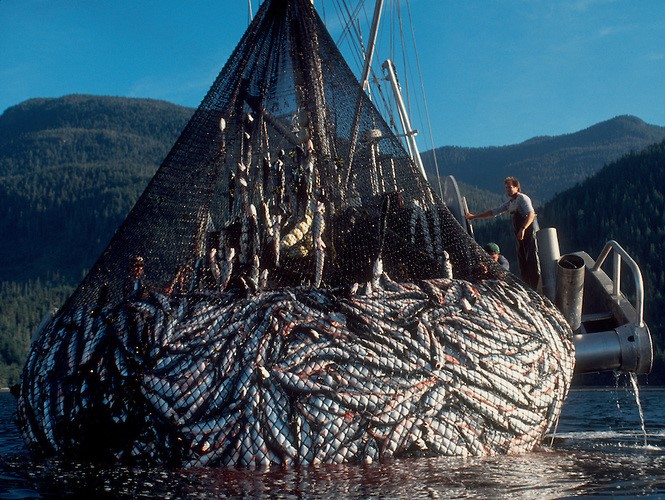
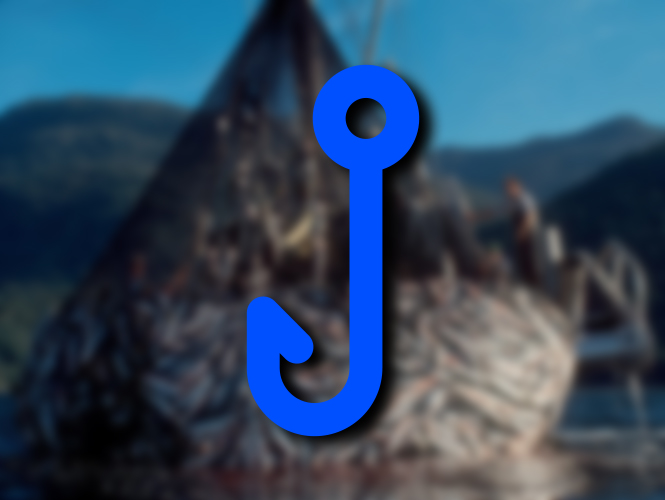
modificada pagina principal, añadidas páginas de información y perfil (todavía por completar) y modificaciones en el header para todas las páginas

diff --git a/html/Perfil.html b/html/Perfil.html
@@ -1,31 +1,22 @@
 <!DOCTYPE html>
-<html lang="en">
+<html>
 
 <head>
-
-    <meta charset="utf-8">
-    <meta name="viewport" content="width=device-width, initial-scale=1, shrink-to-fit=no">
-    <meta name="description" content="Página principal de Aquabid">
-    <meta name="author" content="Miguel Ángel Pérez, Eric Romero, Alberto Sastre, Alfonso Torres">
-
-    <title>AQUABID</title>
-
-    <link rel="shortcut icon" href="../images/Aquabid.png">
-    <link href="https://fonts.googleapis.com/css?family=Comfortaa:400,700" rel="stylesheet">
-
-    <!-- JavaScript -->
-    <script language="javascript" type="text/javascript" src="../js/ProcesoSubasta.js"></script>
-
-    <!-- Bootstrap core CSS -->
     <link rel="stylesheet" href="https://maxcdn.bootstrapcdn.com/bootstrap/4.3.1/css/bootstrap.min.css">
-    <link href="https://fonts.googleapis.com/css?family=Comfortaa:400,700" rel="stylesheet">
-    <link href="../css/lonja.css" rel="stylesheet">
     <link rel="stylesheet" href="../css/RegistroCliente.css">
+    <link rel="stylesheet" href="../css/lonja.css">
+    <link href="https://fonts.googleapis.com/css?family=Comfortaa:400,700" rel="stylesheet">
+    <script src="../js/RegistroCliente.js"></script>
+    <meta charset="UTF-8">
+    <meta name="viewport" content="width=device-width, initial-scale=1">
 
+
+    <title>Perfil</title>
+    <link rel="shortcut icon" href="../images/Aquabid.png">
 </head>
 
-<body id="bprincipal ">
-    <!-- Navigation -->
+    
+<body>
     <header>
         <nav class="navbar navbar-expand-lg navbar-dark bg-dark fixed-top nnavbar">
             <div class="container">
@@ -33,10 +24,10 @@
                 <div class="collapse navbar-collapse" id="navbarResponsive">
 
                     <ul class="navbar-nav ml-auto">
-                        <li class="nav-item-principal ">
+                        <li class="nav-item-principal">
                             <a class="nav-link" href="principal.html">Home</a>
                         </li>
-                        <li class="nav-item-principal active">
+                        <li class="nav-item-principal">
                             <a class="nav-link" href="captura.html">Captura</a>
                         </li>
                         <li class="nav-item-principal">
@@ -51,7 +42,7 @@
                         <li class="nav-item">
                             <a class="nav-link" href="informacion.html">Información</a>
                         </li>
-                        <li class="nav-item">
+                        <li class="nav-item active">
                             <a class="nav-link" href="Perfil.html">Perfil</a>
                         </li>
                     </ul>
@@ -59,63 +50,55 @@
             </div>
         </nav>
     </header>
-
-    <!-- Page Content -->
-    <br>
-    <br>
-    <div id="formularioCliente" class="shadow-lg container">
+        
+        <div id="formularioCliente" class="shadow-lg container">
         <br>
-        <h1 class="text-center">Proceso Subasta</h1>
-        <form name="procesoSubasta">
-
+        <h1 class="text-center">Perfil de usuario</h1>
+        <form name="registrocliente" onsubmit="return Registro()" method="post">
             <div class="form-row">
+                <div class="form-group col-md-6">
+                    <label for="nombreC">Nombre del supervisor:</label>
+                    <input type="text" class="form-control" placeholder="Nombre del cliente" name="nombreC">
+                </div>
+                <div class="form-group col-md-6">
+                    <label for="apellidos">Apellidos:</label>
+                    <input type="text" class="form-control" placeholder="Apellidos" id="apellidos">
+                </div>
+            </div>
+            <div class="form-row">
+                <div class="form-group col-md-6">
+                    <label for="usuario">Usuario:</label>
+                    <input type="text" class="form-control" placeholder="Usuario" id="usuario">
+                </div>
+                <div class="form-group col-md-6">
+                    <label for="telefonoC">Teléfono:</label>
+                    <input type="number" maxlength="9" class="form-control" placeholder="Teléfono del cliente"
+                        id="telefonoC">
+                </div>
+            </div>
+            <div class="form-row">
+                <div class="form-group col-md-6">
+                    <label for="email">Dirección de email:</label>
+                    <input type="email" class="form-control" placeholder="Dirección de email" id="email">
+                </div>
+                <div class="form-group col-md-6">
+                    <label for="password">Contraseña:</label>
+                    <input type="password" class="form-control" id="password" placeholder="Contraseña">
+                </div>
+            </div>
                 <div class="form-group col-md-12">
-                    <div class="output">
-                        <p id="precio" class="text-center size-counter">999.99€</p>
-                    </div>
+                    <label for="codigo">Código Supervisor:</label>
+                    <input type="password" class="form-control" id="password" placeholder="Código">
                 </div>
-            </div>
-            <div class="form-row">
-                <div class="form-group col-md-6">
-                    <label for="barco">Barco:</label>
-                    <output type="text" class="form-control" name="barco">
-                </div>
-                <div class="form-group col-md-6">
-                    <label for="zonaCaptura">Zona captura:</label>
-                    <output type="text" class="form-control" id="zonaCaptura">
-                </div>
-            </div>
-            <div class="form-row">
-                <div class="form-group col-md-6">
-                    <label for="producto">Producto:</label>
-                    <output type="text" class="form-control" id="producto">
-                </div>
-                <div class="form-group col-md-6">
-                    <label for="tamaño">Tamaño:</label>
-                    <output type="number" class="form-control" id="tamaño">
-                </div>
-            </div>
-            <div class="form-row">
-                <div class="form-group col-md-6">
-                    <label for="peso">Peso:</label>
-                    <output type="text" class="form-control" id="peso">
-                </div>
-                <div class="form-group col-md-6">
-                    <label for="precioSalida">Precio salida:</label>
-                    <output type="text" class="form-control" id="precioSalida">
-                </div>
-            </div>
             <br>
-
+            
             <div class="form-boton">
                 <button type="submit"
                     class="btn btn-lg btn-primary btn-block btn-login text-uppercase font-weight-bold mb-2"
-                    id="botonComprar">COMPRAR</button>
+                    id="BotonRegistro">Registrarse</button>
             </div>
         </form>
     </div>
-    <!-- /.container -->
-
     <!-- Footer -->
     <footer class="npadding bg-dark">
         <div class="container">

diff --git a/html/principal.html b/html/principal.html
@@ -11,12 +11,12 @@
     <title>AQUABID</title>
 
     <link rel="shortcut icon" href="../images/Aquabid.png">
+    <link href="https://fonts.googleapis.com/css?family=Comfortaa:400,700" rel="stylesheet"> 
 
     <!-- JavaScript -->
     <script language="javascript" type="text/javascript" src="../js/main.js"></script>
 
     <!-- Bootstrap core CSS -->
-    <link href="https://fonts.googleapis.com/css?family=Comfortaa:400,700" rel="stylesheet"> 
     <link rel="stylesheet" href="https://maxcdn.bootstrapcdn.com/bootstrap/4.3.1/css/bootstrap.min.css">
     <link href="../css/lonja.css" rel="stylesheet">
 
@@ -48,10 +48,10 @@
 
                     <ul class="navbar-nav ml-auto">
                         <li class="nav-item">
-                            <a class="nav-link" href="#">Notificaciones</a>
+                            <a class="nav-link" href="informacion.html">Información</a>
                         </li>
                         <li class="nav-item">
-                            <a class="nav-link" href="#">Perfil</a>
+                            <a class="nav-link" href="Perfil.html">Perfil</a>
                         </li>
                     </ul>
                 </div>
@@ -88,7 +88,7 @@
                 <!-- /.col-md-4 -->
                 <div class="col-md-4 mb-5">
                     <a href="#" class="shadow-lg card h-100 overlay">
-						<img class="card-img-top" src="../images/lonjaExpress.png" alt="Card image">
+						<img class="card-img-top" src="../images/subastaExpress.jpg" alt="Card image">
                         <div class="card-body">
                             <h1 class="card-title text-center">Subasta Express</h1>
                             <p class="card-text text-center">Accede a las subastas express con precios mínimos</p>
@@ -99,10 +99,31 @@
 
             </div>
             <!-- /.row -->
+            <div class="d-flex justify-content-center">
+                <div class="col-md-4 mb-5">
+                    <a href="perfil.html" class="shadow-lg card h-100">
+                        <img class="card-img-top" src="../images/perfil.jpg" alt="Card image">
+                        <div class="card-body">
+                            <h1 class="card-title text-center">Perfil</h1>
+                            <p class="card-text text-center">Consulta tus datos de usuario</p>
+                        </div>
+                    </a>
+                </div>
+                <!-- /.col-md-4 -->
+                <div class="col-md-4 mb-5">
+                    <a href="informacion.html" class="shadow-lg card h-100">
+                        <img class="card-img-top" src="../images/informacion.jpg" alt="Card image">
+                        <div class="card-body">
+                            <h1 class="card-title text-center">Información</h1>
+                            <p class="card-text text-center">Acerca de nosotros y FAQs</p>
+                        </div>
+                    </a>
+                </div>
+                <!-- /.col-md-4 -->
+            </div>
         </div>
     </div>
     <!-- /.container -->
-
 
     <!-- Footer -->
     <footer class="npadding bg-dark">

diff --git a/html/Informacion.html b/html/Informacion.html
@@ -14,17 +14,17 @@
     <link href="https://fonts.googleapis.com/css?family=Comfortaa:400,700" rel="stylesheet">
 
     <!-- JavaScript -->
-    <script language="javascript" type="text/javascript" src="../js/main.js"></script>
+    <script language="javascript" type="text/javascript" src="../js/Captura.js"></script>
 
     <!-- Bootstrap core CSS -->
     <link rel="stylesheet" href="https://maxcdn.bootstrapcdn.com/bootstrap/4.3.1/css/bootstrap.min.css">
-    <link href="https://fonts.googleapis.com/css?family=Comfortaa:400,700" rel="stylesheet">
     <link href="../css/lonja.css" rel="stylesheet">
+    <link rel="stylesheet" href="../css/RegistroCliente.css">
 
 
 </head>
 
-<body>
+<body id="bprincipal ">
     <!-- Navigation -->
     <header>
         <nav class="navbar navbar-expand-lg navbar-dark bg-dark fixed-top nnavbar">
@@ -33,13 +33,13 @@
                 <div class="collapse navbar-collapse" id="navbarResponsive">
 
                     <ul class="navbar-nav ml-auto">
-                        <li class="nav-item-principal">
+                        <li class="nav-item-principal ">
                             <a class="nav-link" href="principal.html">Home</a>
                         </li>
                         <li class="nav-item-principal">
                             <a class="nav-link" href="captura.html">Captura</a>
                         </li>
-                        <li class="nav-item-principal active">
+                        <li class="nav-item-principal">
                             <a class="nav-link" href="subastas.html">Subastas</a>
                         </li>
                         <li class="nav-item-principal">
@@ -48,7 +48,7 @@
                     </ul>
 
                     <ul class="navbar-nav ml-auto">
-                        <li class="nav-item">
+                        <li class="nav-item active">
                             <a class="nav-link" href="informacion.html">Información</a>
                         </li>
                         <li class="nav-item">
@@ -65,20 +65,22 @@
     <br>
     <div id="formularioCliente" class="shadow-lg container">
         <br>
-        <a type="button" href="ProcesoSubasta.html" >Subasta 1</a>
+        <h1 class="text-center">Información</h1>
+        <h2>Sobre nosotros:</h2>
+        <img id="logoAqBd" class="img-fluid mx-auto d-block" src="../images/Aquabid.png">
+        <br>
+        <p>AQUABID es una lonja online en la que podrá realizar la compraventa de lotes de productos del mar de una forma sencilla y accesible.</p>
+        <p>Registre una captura para venderla en una subasta o acceda a cualquier subasta en progreso y compre aquellos lotes que usted quiera. AQUABID le permite todo esto de forma gratuita.</p>
 
     </div>
     <!-- /.container -->
-
 
     <!-- Footer -->
     <footer class="npadding bg-dark">
         <div class="container">
             <p class="m-0 text-center text-white">Copyright &copy; Aquabid 2019</p>
         </div>
-        <!-- /.container -->
     </footer>
-
 </body>
 
 </html>

diff --git a/html/captura.html b/html/captura.html
@@ -50,10 +50,10 @@
 
                     <ul class="navbar-nav ml-auto">
                         <li class="nav-item">
-                            <a class="nav-link" href="#">Notificaciones</a>
+                            <a class="nav-link" href="informacion.html">Información</a>
                         </li>
                         <li class="nav-item">
-                            <a class="nav-link" href="#">Perfil</a>
+                            <a class="nav-link" href="Perfil.html">Perfil</a>
                         </li>
                     </ul>
                 </div>

diff --git a/css/lonja.css b/css/lonja.css
@@ -108,3 +108,9 @@ body{
 .size-counter{
   font-size: 7rem;
 }
+
+#logoAqBd{
+  max-height: 45vh;
+  max-width: auto;
+  margin-top: 1rem; 
+}
